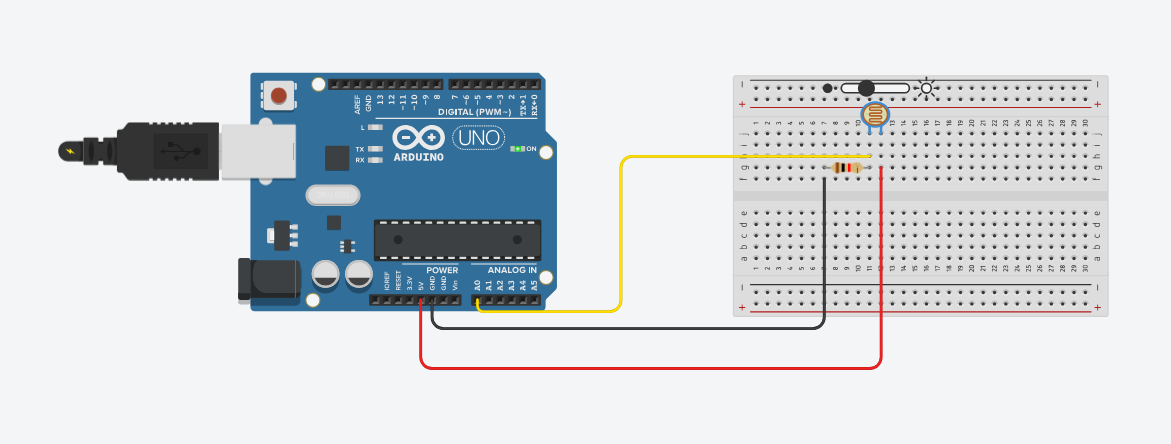
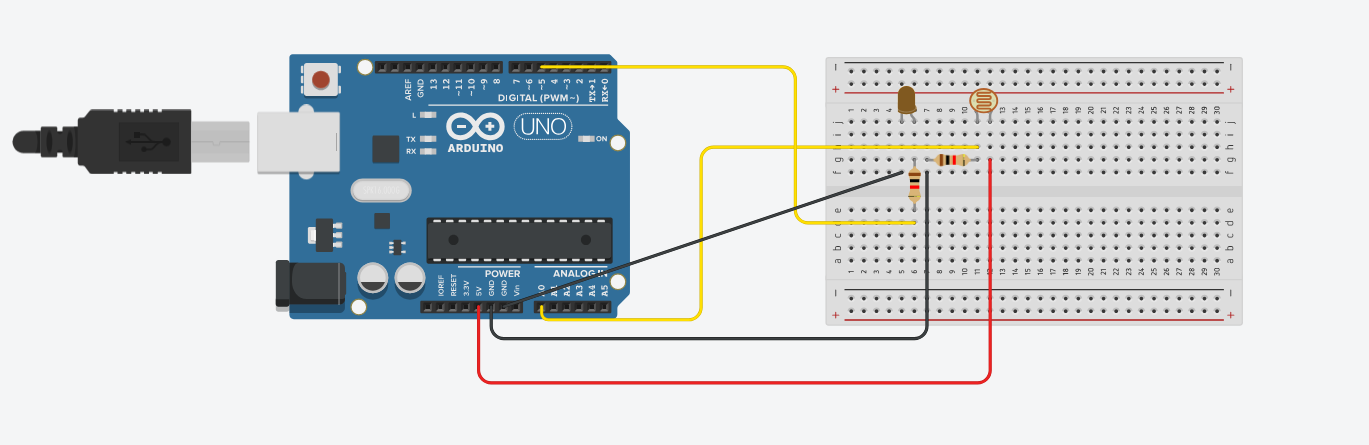
docs(iot): structure blog content part

Changed region(s): [[0.0, 0.1171, 0.953, 0.8784]]

diff --git a/src/content/posts/internet-of-thing/getting-started/list-hardware-device.md b/src/content/posts/internet-of-thing/getting-started/list-hardware-device.md
@@ -45,12 +45,12 @@ Here is a simple simulation circuit connecting an LDR with an **Arduino Uno** us
 ![Photoresistor Arduino Simulation](@/assets/images/iot/photonresistor-simulation.png)
 *Figure 2: Breadboard simulation circuit connecting an LDR to Arduino Uno analog pin A0.*
 
-#### Circuit Connections
+##### Circuit Connections
 - **5V $\rightarrow$ LDR:** One leg connects to the **5V** rail.
 - **LDR $\rightarrow$ A0 & Resistor:** The other leg connects to **A0** and a pull-down resistor ($10\text{k}\Omega$).
 - **Resistor $\rightarrow$ GND:** The resistor connects to **GND** to complete the voltage divider.
 
-#### Arduino Example Code
+##### Arduino Example Code
 ```cpp
 const int LDR_PIN = A0; // Connect to Analog pin A0
 
@@ -80,11 +80,11 @@ Now, let's turn this into a real-world smart application: an **automatic night l
 ![Photoresistor and LED Integrated Circuit](@/assets/images/iot/photoresistor-led-integrate.png)
 *Figure 3: Arduino circuit controlling an LED based on LDR light readings.*
 
-#### Additional Circuit Connections
+##### Additional Circuit Connections
 - **Digital Pin 5 $\rightarrow$ LED Anode (+):** Connects to the positive leg of the LED to control power via code.
 - **LED Cathode (-) $\rightarrow$ LDR / GND:** Ground connection completes the circuit.
 
-#### Arduino Example Code
+##### Arduino Example Code
 ```cpp
 const int LDR_PIN = A0;   // Photoresistor connected to Analog A0
 const int LED_PIN = 5;    // LED connected to Digital Pin 5
